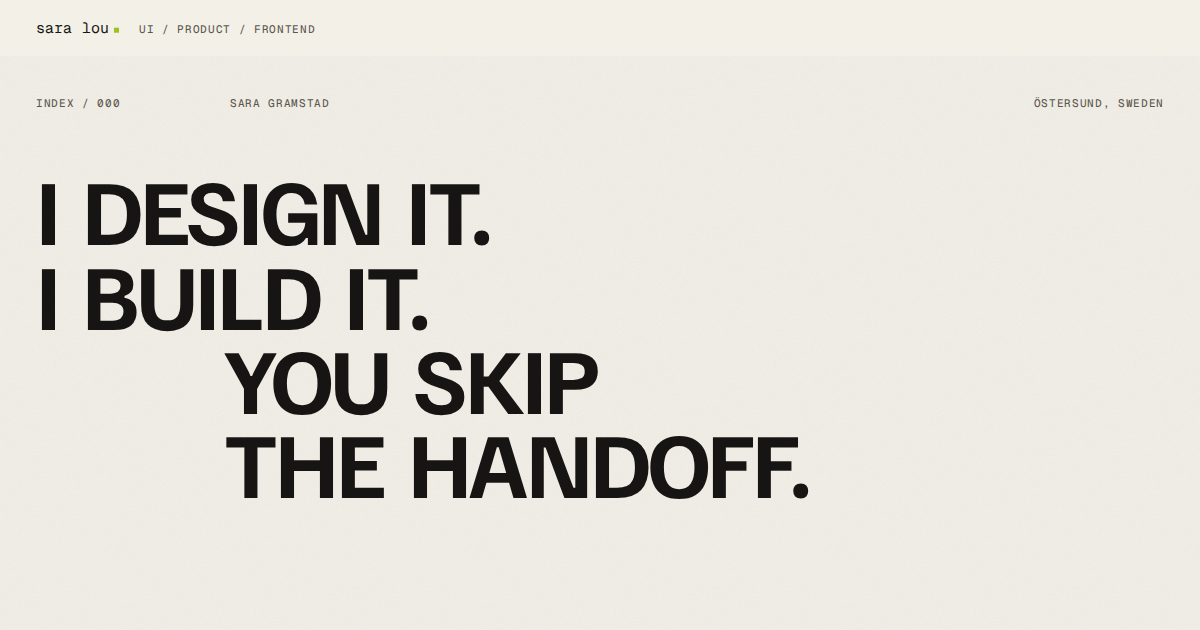
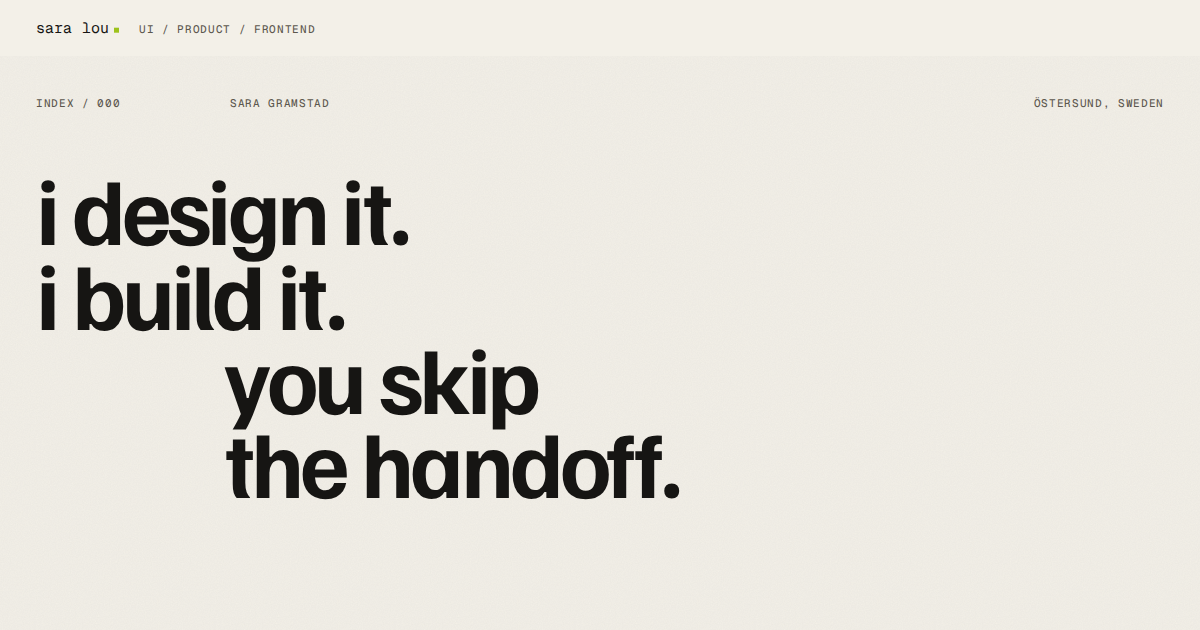
Set headlines and buttons in lowercase
Display type goes lowercase with tighter tracking, matching Handsdown.
The line-reveal mask gets room for descenders, and the caps-only word
spacing is dropped from headlines. Mono system labels stay uppercase.
OG image regenerated.

Claude-Session: https://claude.ai/code/session_011K1qsvehvz2pY9Y4J7gqbK

Changed region(s): [[0.0308, 0.2714, 0.6783, 0.8143]]

diff --git a/src/styles/globals.css b/src/styles/globals.css
@@ -120,13 +120,13 @@
   /* Display sizes are set for bold uppercase grotesk (use with .type-display) */
   --text-display-xl: clamp(2.6rem, 0.9rem + 6.6vw, 7.25rem);
   --text-display-xl--line-height: 0.9;
-  --text-display-xl--letter-spacing: -0.03em;
+  --text-display-xl--letter-spacing: -0.04em;
   --text-display-lg: clamp(2.1rem, 1rem + 4.2vw, 5rem);
   --text-display-lg--line-height: 0.92;
-  --text-display-lg--letter-spacing: -0.025em;
+  --text-display-lg--letter-spacing: -0.035em;
   --text-display-md: clamp(1.6rem, 1.05rem + 2.1vw, 2.9rem);
   --text-display-md--line-height: 0.98;
-  --text-display-md--letter-spacing: -0.02em;
+  --text-display-md--letter-spacing: -0.03em;
   --text-display-sm: clamp(1.25rem, 1rem + 0.9vw, 1.75rem);
   --text-display-sm--line-height: 1.05;
   --text-display-sm--letter-spacing: -0.012em;
@@ -282,9 +282,8 @@
 @utility type-display {
   font-family: var(--font-display);
   font-weight: 700;
-  text-transform: uppercase;
+  text-transform: lowercase; /* the Handsdown way: big, bold, all lowercase, proper nouns included */
   font-kerning: normal;
-  word-spacing: 0.08em; /* bold caps with tight tracking swallow their word spaces */
 }
 
 /* Small monospaced uppercase label — the notebook voice */
@@ -327,8 +326,8 @@
 @utility reveal-line {
   display: block;
   overflow: clip;
-  padding-bottom: 0.08em;
-  margin-bottom: -0.08em;
+  padding-bottom: 0.22em; /* room for descenders: g, p, y */
+  margin-bottom: -0.22em;
 }
 
 /* Underline that draws itself on hover — used by AnimatedLink */

diff --git a/src/components/ui/button.tsx b/src/components/ui/button.tsx
@@ -7,7 +7,7 @@ import { cn } from '@/lib/utils'
 const buttonVariants = cva(
   [
     'group/button relative inline-flex shrink-0 cursor-pointer items-center justify-center gap-2 whitespace-nowrap select-none',
-    'rounded-full font-display font-bold uppercase tracking-[-0.005em] [word-spacing:0.12em]',
+    'rounded-full font-display font-bold lowercase tracking-[-0.005em] [word-spacing:0.14em]',
     'transition-[background-color,color,border-color,transform] duration-fast ease-out-soft',
     // a small, mechanical snap on press
     'active:translate-y-px active:scale-[0.98] disabled:pointer-events-none disabled:opacity-50',

diff --git a/src/components/layout/site-footer.tsx b/src/components/layout/site-footer.tsx
@@ -76,7 +76,7 @@ export function SiteFooter() {
           <h2 className="type-label text-ink-muted">Colophon</h2>
           <p className="mt-4 max-w-sm text-small text-ink-muted">
             Built by hand with React, TypeScript, Vite, Tailwind and a little GSAP. Set in{' '}
-            <span className="font-display font-bold text-ink uppercase">Familjen Grotesk</span>, Geist and{' '}
+            <span className="font-display font-bold text-ink lowercase">Familjen Grotesk</span>, Geist and{' '}
             <span className="font-mono text-[0.9em] text-ink">Geist Mono</span>.
           </p>
         </div>

diff --git a/BRAND.md b/BRAND.md
@@ -3,7 +3,7 @@
 > A small, very well-made corner of the internet belonging to Sara Gramstad.
 > A little precise. A little strange. Not trying to impress you.
 
-**v4:** the copy now speaks in the Handsdown tone: warm, direct, talks to you (see Voice). The visual system is unchanged.
+**v4:** the copy now speaks in the Handsdown tone: warm, direct, talks to you (see Voice). Headlines and buttons went lowercase to match; the mono system labels stay uppercase.
 
 **v3:** the serif is gone. Instrument Serif read as "2020 soft creative director", so display type is now **Familjen Grotesk Bold, uppercase** (a free stand-in for Mabry Bold; Archivo was tried first and was too wide), taking its cue from Designlab's CTA blocks without the blue. The contact section is a solid ink block with an acid pill button. And every line on the site went through a bullshit audit.
 
@@ -104,11 +104,11 @@ The green should feel almost accidental: a tiny LED, one active state, one hover
 
 ## Typography
 
-- **Familjen Grotesk, 700, UPPERCASE** (`type-display`): headlines, project titles, buttons. Bold, slightly odd, notched corners. To switch to Mabry Bold with a web licence, change `--font-display` and the font import
+- **Familjen Grotesk, 700, lowercase** (`type-display`): headlines, project titles, buttons, proper nouns included ("the startup house of malmö"). Tight tracking. Bold, slightly odd, notched corners. To switch to Mabry Bold with a web licence, change `--font-display` and the font import
 - **Geist Mono:** the name, the system voice, every number
 - **Geist:** reading
 
-No serif. No italics in headlines. It's bold + mono, worn in rather than precious.
+No serif. No italics in headlines. It's bold lowercase + uppercase mono: loud words, strict labels.
 
 ## Buttons and the contact block
 

diff --git a/README.md b/README.md
@@ -173,7 +173,7 @@ When adding a custom token, also add it to `extendTailwindMerge` in `src/lib/uti
 ## Design tokens
 
 - **Colour:** `paper`, `paper-raised`, `paper-sunken`, `ink`, `ink-muted`, `ink-faint`, `rule`, `rule-strong`, and one acid-green `accent` for status LEDs and selection, plus `accent-ink` for the rare accent *text*. Never put text in `accent` on paper. All text tokens are ≥ 4.5:1 on paper.
-- **Type:** three families with fixed roles. *Familjen Grotesk* (bold caps, via `type-display`; a free stand-in for Mabry Bold) for display, *Geist* for reading, *Geist Mono* for metadata. A fluid scale: `text-display-xl/lg/md/sm`, `text-title`, `text-lead`, `text-body`, `text-small`, `text-meta`, `text-micro`, `text-nano`.
+- **Type:** three families with fixed roles. *Familjen Grotesk* (bold lowercase, via `type-display`; a free stand-in for Mabry Bold) for display, *Geist* for reading, *Geist Mono* for metadata. A fluid scale: `text-display-xl/lg/md/sm`, `text-title`, `text-lead`, `text-body`, `text-small`, `text-meta`, `text-micro`, `text-nano`.
 - **Radius / shadow:** `rounded-xs…xl` (crisp by default; `lg` only on iOS-style panels), `shadow-paper/lift/float`.
 
 shadcn/ui components in use: **Button, Sheet** (mobile menu), **Dialog + Command** (⌘K menu), plus a small `Kbd`. `components.json` is set up, so `npx shadcn@latest add <component>` works.
